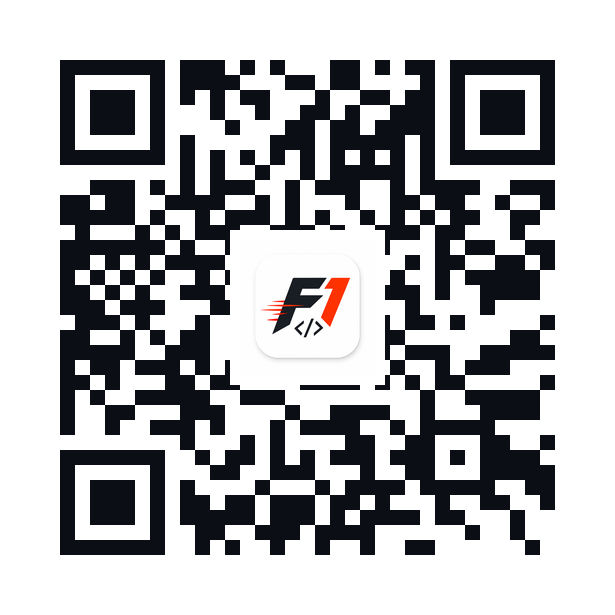
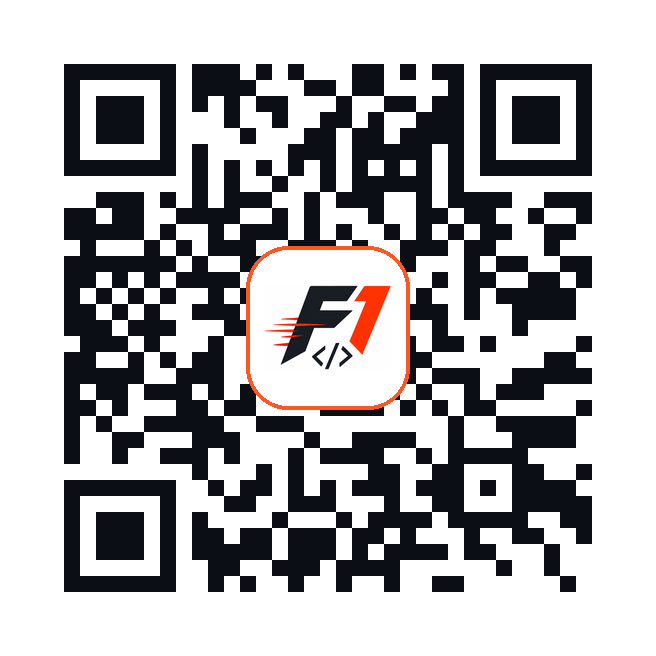
style: generate QR code with smooth curved-edge squircle badge and F1 orange border

Changed region(s): [[0.3707, 0.3707, 0.6488, 0.6488], [0.587, 0.587, 0.6179, 0.6179]]

diff --git a/generate_qr.py b/generate_qr.py
@@ -1,7 +1,7 @@
 import sys
 import os
 import qrcode
-from PIL import Image
+from PIL import Image, ImageDraw
 
 def generate_code_f1_qr(target_url, output_path="code_f1_qr.png", logo_path="public/logos/code-f1-logo.png"):
     print(f"Generating QR Code for: {target_url}")
@@ -10,41 +10,55 @@ def generate_code_f1_qr(target_url, output_path="code_f1_qr.png", logo_path="pub
     qr = qrcode.QRCode(
         version=None,
         error_correction=qrcode.constants.ERROR_CORRECT_H,
-        box_size=15,
+        box_size=16,
         border=4,
     )
     qr.add_data(target_url)
     qr.make(fit=True)
 
-    # Generate QR image (Dark theme colors: dark background/orange or clean white/black for 100% scan reliability)
-    # We create high-contrast black on white for maximum camera readability
+    # Generate high-contrast black on white QR image for maximum scanning reliability
     qr_img = qr.make_image(fill_color="#0B0E14", back_color="#FFFFFF").convert("RGBA")
+    qr_w, qr_h = qr_img.size
 
-    # If Code F1 logo exists, embed it cleanly in the center
+    # Embed smooth curved-edge Code F1 logo badge in the center
     if os.path.exists(logo_path):
+        # Badge size: ~25% of QR width
+        badge_size = int(qr_w * 0.25)
+        radius = int(badge_size * 0.26)
+
+        # Load master logo and crop exact F1 glyph
         logo = Image.open(logo_path).convert("RGBA")
-        
-        # Calculate logo size: ~22% of QR width
-        qr_width, qr_height = qr_img.size
-        logo_max_size = int(qr_width * 0.22)
-        
-        # Resize logo keeping aspect ratio
-        logo.thumbnail((logo_max_size, logo_max_size), Image.Resampling.LANCZOS)
-        
-        # Create a white background padding behind the logo for contrast
-        padding = 10
-        bg_size = (logo.size[0] + padding * 2, logo.size[1] + padding * 2)
-        logo_bg = Image.new("RGBA", bg_size, (255, 255, 255, 255))
-        
-        # Paste logo on white background
-        logo_bg.paste(logo, (padding, padding), mask=logo)
-        
-        # Center position
-        pos = ((qr_width - logo_bg.size[0]) // 2, (qr_height - logo_bg.size[1]) // 2)
-        
-        # Paste onto QR
-        qr_img.paste(logo_bg, pos)
-        print("Embedded official Code F1 logo into QR center.")
+        glyph = logo.crop((190, 345, 1025, 910))
+
+        glyph_target_w = int(badge_size * 0.78)
+        glyph_aspect = glyph.height / glyph.width
+        glyph_target_h = int(glyph_target_w * glyph_aspect)
+        glyph_resized = glyph.resize((glyph_target_w, glyph_target_h), Image.Resampling.LANCZOS)
+
+        # Create pure white card with smooth curved edges and orange border
+        badge = Image.new("RGBA", (badge_size, badge_size), (0, 0, 0, 0))
+        badge_draw = ImageDraw.Draw(badge)
+        badge_draw.rounded_rectangle(
+            [0, 0, badge_size - 1, badge_size - 1],
+            radius=radius,
+            fill=(255, 255, 255, 255),
+            outline=(255, 87, 34, 255),
+            width=4
+        )
+
+        glyph_x = (badge_size - glyph_target_w) // 2
+        glyph_y = (badge_size - glyph_target_h) // 2
+        badge.paste(glyph_resized, (glyph_x, glyph_y))
+
+        # Mask for badge with curved corners
+        mask = Image.new("L", (badge_size, badge_size), 0)
+        mask_draw = ImageDraw.Draw(mask)
+        mask_draw.rounded_rectangle([0, 0, badge_size - 1, badge_size - 1], radius=radius, fill=255)
+
+        # Paste directly onto QR code
+        pos_badge = ((qr_w - badge_size) // 2, (qr_h - badge_size) // 2)
+        qr_img.paste(badge, pos_badge, mask=mask)
+        print("Embedded curved-edge Code F1 logo into QR center.")
 
     qr_img.save(output_path, "PNG")
     print(f"Saved high-resolution QR Code to: {os.path.abspath(output_path)}")
@@ -54,9 +68,6 @@ if __name__ == "__main__":
     if len(sys.argv) > 1:
         url = sys.argv[1].strip()
     else:
-        # Prompt or fallback
-        url = input("Enter permanent website URL: ").strip()
-        if not url:
-            url = "https://codef1-links.vercel.app"
+        url = "https://linkportal-mu.vercel.app/"
 
     generate_code_f1_qr(url)
